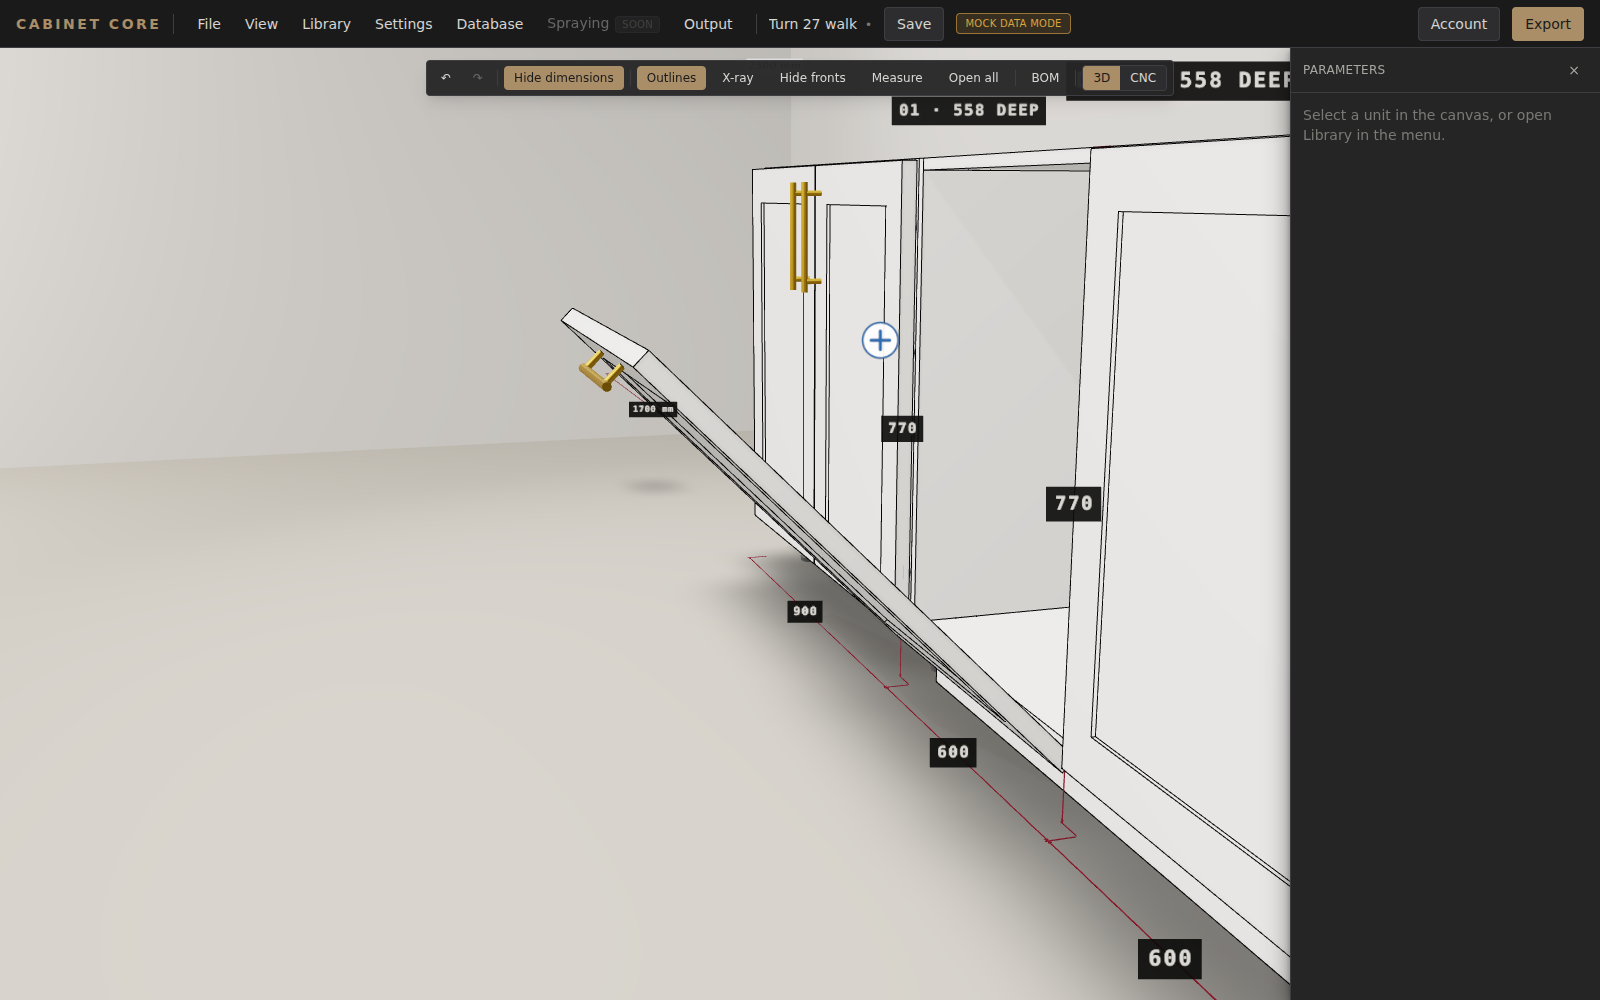
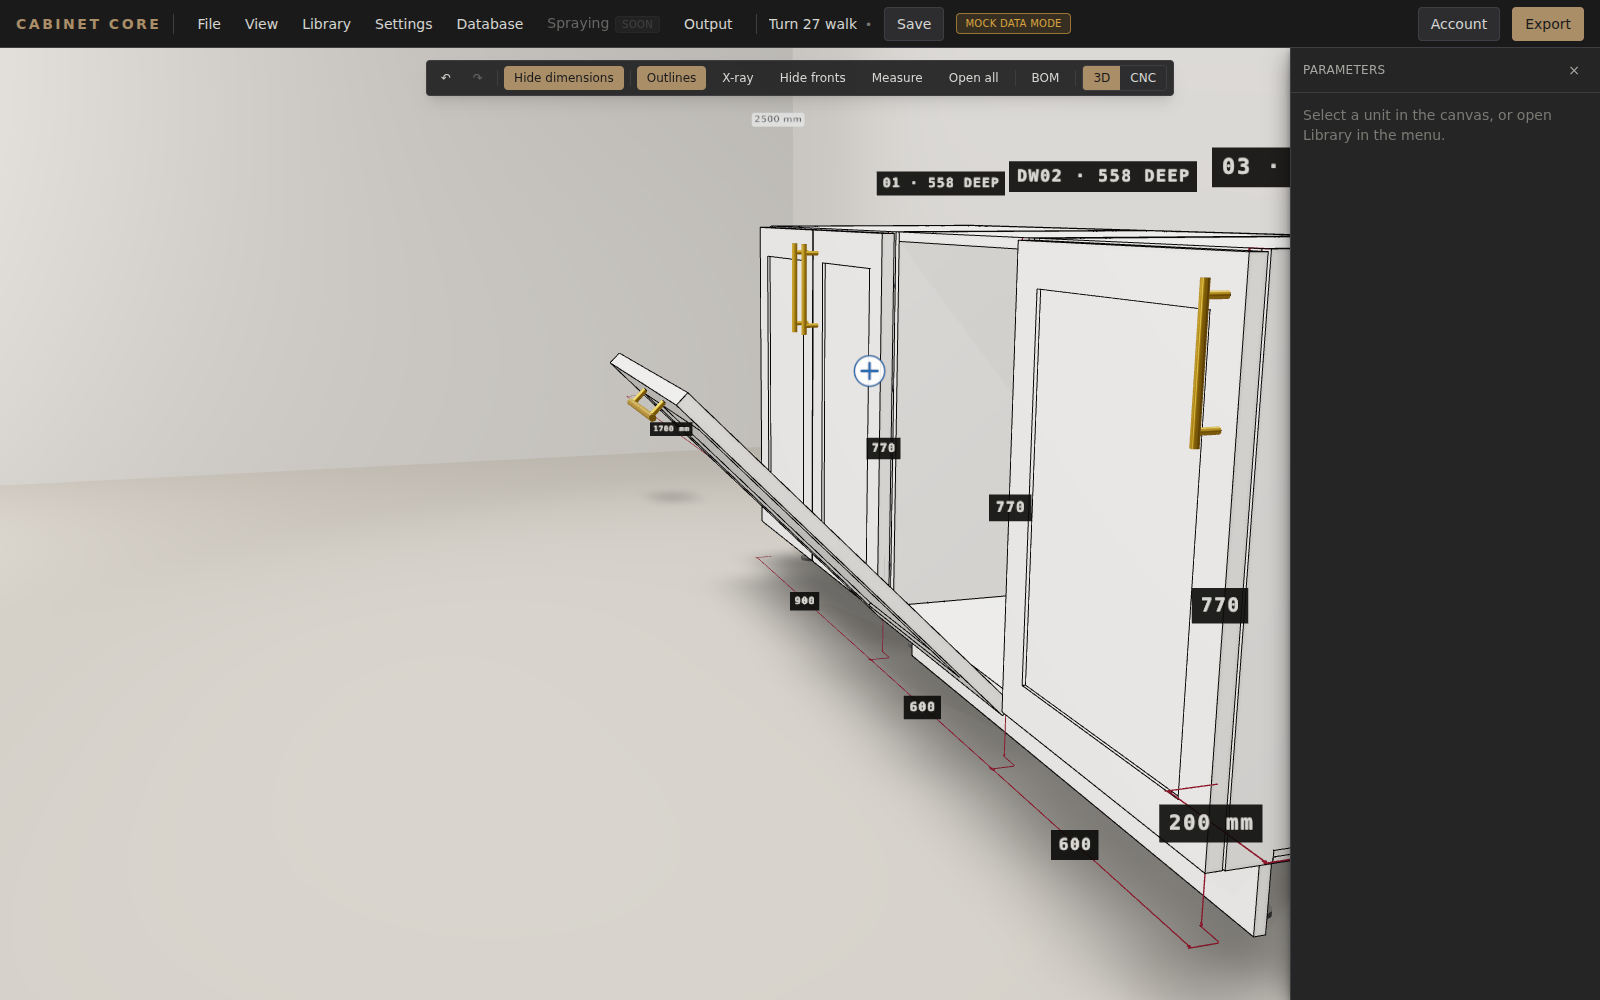
Turn 27 · the walk's pictures, framed on what they are about
The same walk, re-run with the cameras aimed properly. A screenshot of a
shut door is a photograph of a door, and three of these were.

  1a  fronts OFF, so the picture is the INSIDE of the cabinet: the shelf
      standing in the right-hand bay between the partition and BUR,
      which is the arrangement every assertion around it is about.
  2a  the whole run, so the D/W front reads beside its neighbours —
      shaker frame, horizontal bar handle, tops and bottoms in line.
  2b  from further round, so the 45° drop is an angle rather than a
      foreshortened face, with the empty carcass behind it.
  3b  "behind the door" is not a camera inside the carcass — the back
      panel is in the way and a photograph of it proves nothing. It is
      the leaf's own BACK FACE, and the way to see it is the way a
      joiner does: swing the door open and walk round it. The back is
      solid, with its three cup bores in it and no hole where the recess
      is, which is the picture F3.3 asks for.

BACKLOG #119 records a defect this turn found and did not fix, with the
evidence that it is not this turn's: `partitionBackScrewRun` writes its
⌀3 run onto BACK in the CABINET's frame, and on SINK, OVEN_BASE and
FRIDGE the back is smaller or elsewhere, so ten holes land off the
board. It is F1's own disease on another board, and the probe gives the
identical answer on 8c0ece5. Gathered for turn 28 with the rest.

Claude-Session: https://claude.ai/code/session_01TySmtLD2qLNmmS3wGx5Dz4

diff --git a/BACKLOG.md b/BACKLOG.md
@@ -771,3 +771,14 @@ dało się je odszukać po jego numerze, a nie tylko po fazie.
     więc pytanie robi się głośniejsze.
 118. [LOW] **`scripts/e2e-turn18.mjs` nie zna zmian tury 19.** To samo, co poz.
     66, 71, 77, 85, 90, 95 i 105. `e2e-turn19.mjs` jest następcą.
+119. [MEDIUM] **Wkręty ⌀3 w PLECACH wychodzą poza formatkę na kitach o krótkich
+    plecach.** Znalezione przy okazji tury 27 (F1), sprawdzone i potwierdzone
+    jako **stan sprzed tej tury** — probe daje ten sam wynik na `8c0ece5`, więc
+    nic tu nie zepsuł ten obieg. `partitionBackScrewRun` (tura 23, F6) liczy
+    swój bieg w układzie SZAFKI i wypisuje go na `BACK`, a `BACK` na SINK
+    (cofnięte plecy), OVEN_BASE (plecy tylko za szufladą) i FRIDGE (plecy jako
+    listwy) jest znacznie mniejszy albo w innym miejscu. Wynik: dziesięć
+    otworów, które na arkuszu leżą poza obrysem — najgorszy na FRIDGE, y = −1736.
+    Formatka jest poprawna; punkt nie jest przeliczony do jej własnej ramy.
+    Dokładnie ta sama choroba, którą F1 wyleczył dla półki, na drugim boarcie.
+    Do tury 28 razem z resztą zebranych rzeczy.
